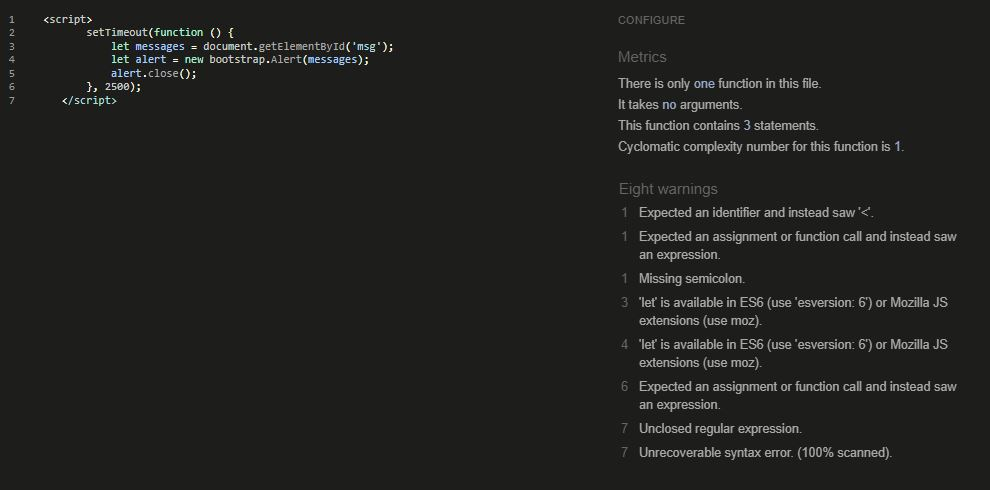
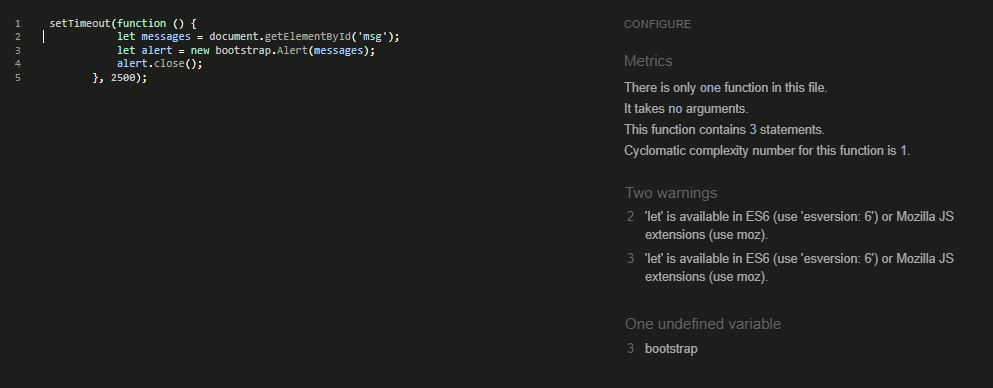
style: fix class error

Changed region(s): [[0.6061, 0.0309, 0.9697, 0.9588], [0.0, 0.0309, 0.3939, 0.2165]]

diff --git a/templates/post_create.html b/templates/post_create.html
@@ -18,7 +18,7 @@
                             {% csrf_token %}
                             <div class="text-center">
                                 <button type="submit" class="btn btn-signup my-4">Submit</button>
-                                <a href="{% url 'home'  %}" class="post-link">Cancel</a>
+                                <a href="{% url 'home'  %}" class="cancel-link">Cancel</a>
                             </div>
                         </form>
                     </div>

diff --git a/templates/base.html b/templates/base.html
@@ -110,6 +110,7 @@
     </footer>
 
     <!-- Messages JS -->
+    <!-- Messages Code taken from CI walkthrough project -->
     <script>
         setTimeout(function () {
             let messages = document.getElementById('msg');

diff --git a/README.md b/README.md
@@ -175,8 +175,11 @@ The principles of good UX design were followed when designing and creating The G
 ### Future Development
 ---
 ## Testing
+
 The application has been thoroughly tested and code validated. All testing documentation can be found in the separate [TESTING.md](/TESTING.md) file.
+
 ---
+
 ## Bugs
 ### Fixed Bugs
 - During Development the following bugs were fixed:
@@ -264,6 +267,14 @@ Config Vars for production:
 - Dog image was taken from [rawpixel](https://www.rawpixel.com/) (id-12054680)
 
 ### Content
+- Event and Post details taken from:
+    - [The SouthEast Grooming Show](#https://wildwash.co.uk/event/the-south-east-grooming-show-2024/)
+    - [The Dog Grooming Academy](#https://allevents.in/org/the-dog-grooming-academy/23332180)
+    - [GroomFest](#https://groomfest.co.uk/)
+    - [Gov.uk](#https://www.gov.uk/government/news/new-legal-restrictions-on-xl-bully-dog-now-in-force)
+    - [Groomer's Choice Blog](#https://blog.groomerschoice.com/5-tips-for-new-competitive-groomers)
+    - [Groomers](#https://www.groomers-online.com/blog/2022/09/what-is-competitive-dog-grooming-all-about/)
+    - [Total Grooming Magazine](#https://totalgroomingmagazine.co.uk/groomers-of-the-month-emma-darlington/)
 
 ### Documentation and Useful Blogs
 The following documentation, blogs, tutorials and guides were used to aid development.

diff --git a/TESTING.md b/TESTING.md
@@ -50,7 +50,7 @@ The CSS code was tested using [W3C CSS Validator](https://jigsaw.w3.org/css-vali
 ![CSS Validator](documentation/css.jpg)
 
 ### JavaScript
-A small amount of JavaScript was used for Messages in base.html. This raised eight errors in [JSHint Validator](https://jshint.com/), which I will go on to fix at a later date. Given such a small amount of JS was used and it passed in terms of functionality, this was not deemed a priority, within the time available.<br>
+A small amount of JavaScript was used for Messages in base.html. This raised two wearnings in [JSHint Validator](https://jshint.com/), which I will go on to fix at a later date. Given such a small amount of JS was used and it passed in terms of functionality, this was not deemed a priority, within the time available.<br>
 ![JS Validator](documentation/js.jpg)
 
 ### Python
